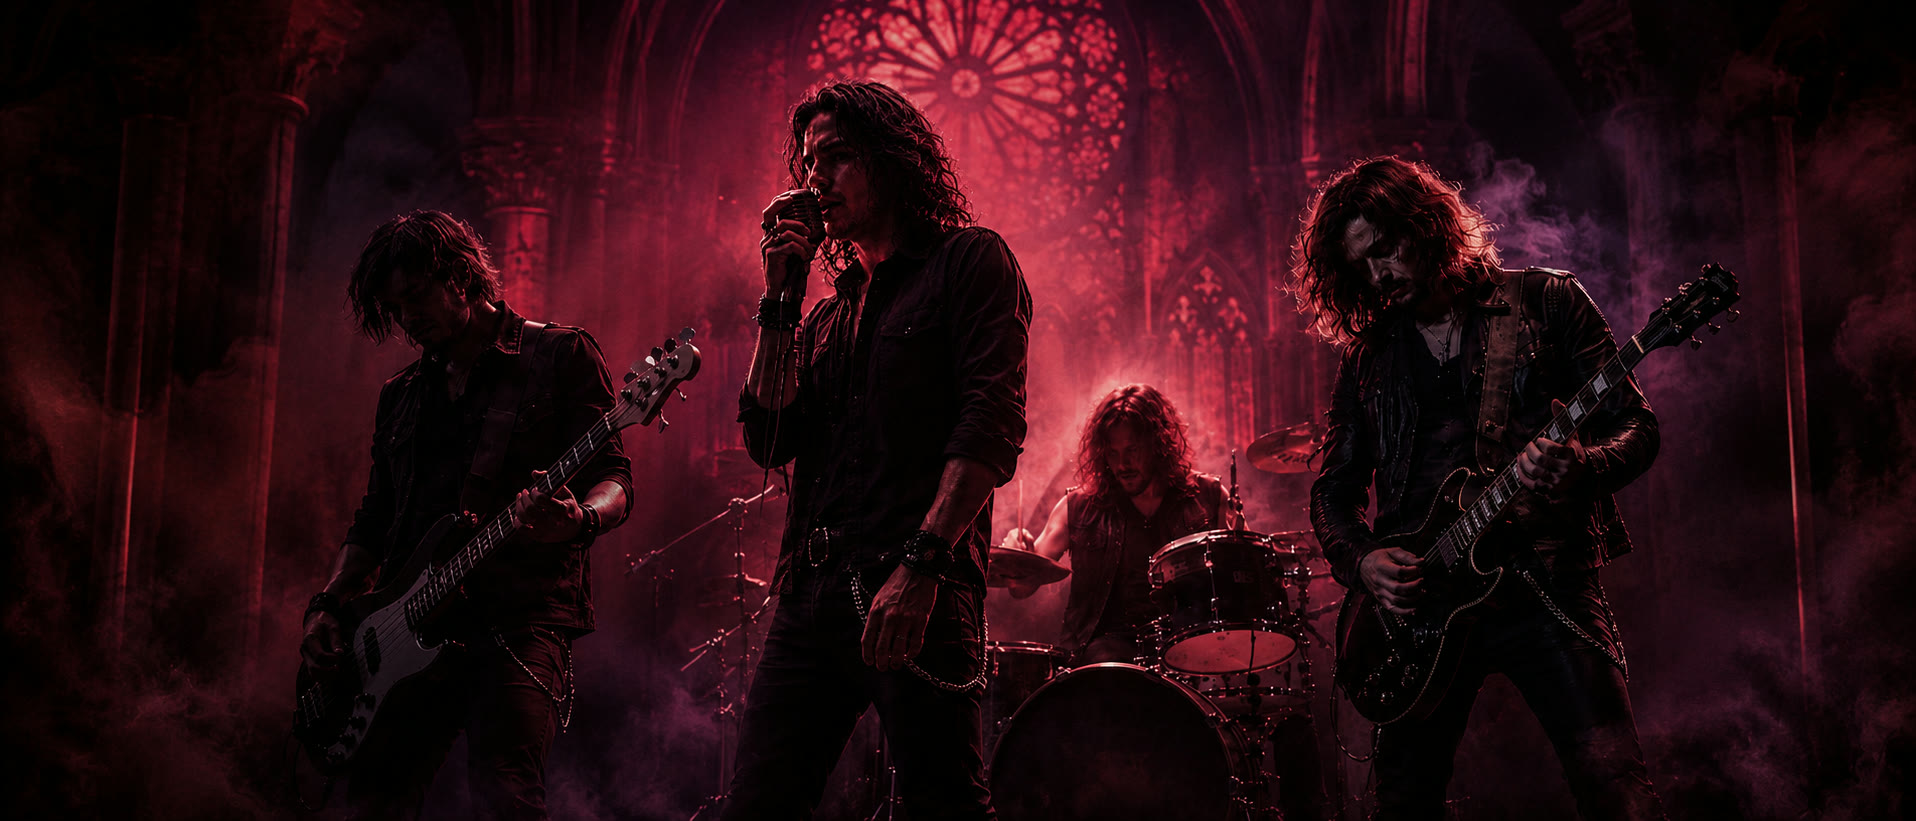
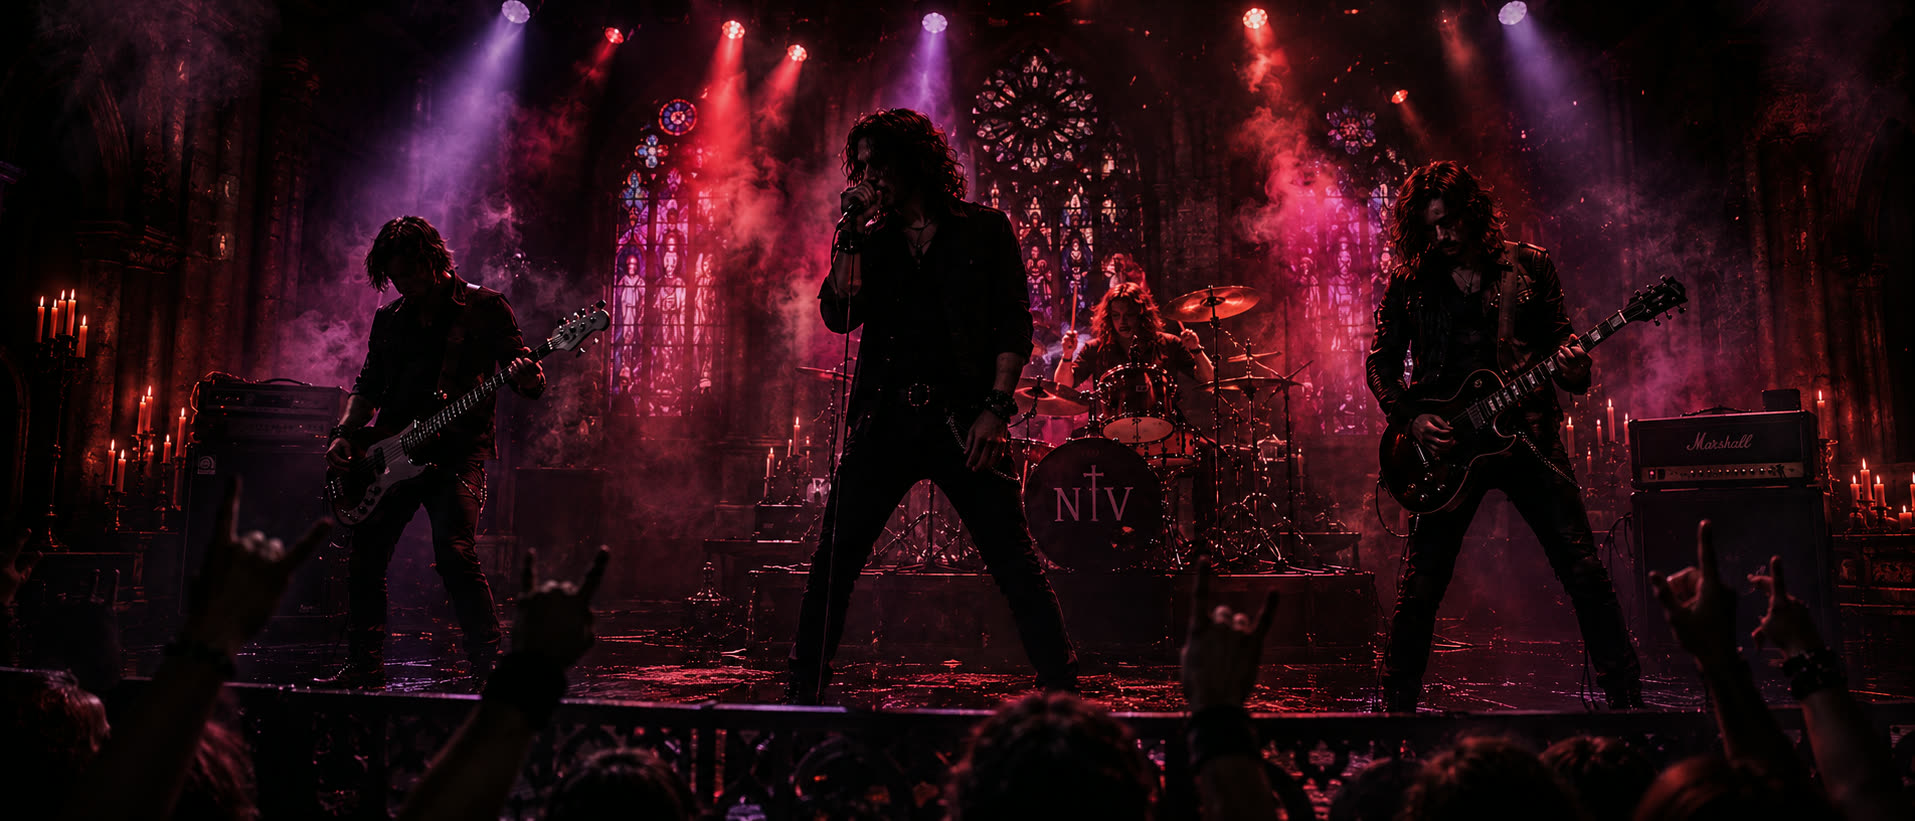
Restore press-kit poster as a tracked, right-sized JPG
Caught pre-deploy: band.html and band-scroll.html referenced
band-press-kit.png, which existed on disk but had never been committed
— so the press scene's poster and the scroll site's press image would
both have 404'd on the live site while looking fine locally.

Rather than commit the 2.14MB PNG, re-encoded it to the already-tracked
band-press-kit.jpg path (248KB, 8.6x smaller) which matches the
convention every other poster in the project follows. Verified the
re-encode against the source: no visible artifacts in the smoke
gradients or candle detail. Repointed both files, removed the PNG.

Pre-deploy audit now passes on both counts: every local asset
reference resolves on disk, and every referenced file is tracked in
git (the only greps left are the two spatial-audio paths, which live
inside a comment).

diff --git a/band-scroll.html b/band-scroll.html
@@ -168,12 +168,12 @@
     <section class="section tour" id="press">
       <div class="section-head reveal"><p class="kicker">03 / Press</p><h2>Press Kit</h2></div>
       <div class="record-grid">
-        <figure class="media-frame press-image reveal-media"><img class="lazy-media" data-src="assets/band-press-kit.png" alt="NOCTURNE VELVET press kit"><noscript><img src="assets/band-press-kit.png" alt="NOCTURNE VELVET press kit"></noscript></figure>
+        <figure class="media-frame press-image reveal-media"><img class="lazy-media" data-src="assets/band-press-kit.jpg" alt="NOCTURNE VELVET press kit"><noscript><img src="assets/band-press-kit.jpg" alt="NOCTURNE VELVET press kit"></noscript></figure>
         <div class="record-copy reveal">
           <p class="kicker">Official media</p><h2>NOCTURNE VELVET</h2>
           <p class="quote">"A staggering live force."<br>— Placeholder Mag</p>
           <p class="quote">"Dark, romantic, deafening."<br>— Placeholder Zine</p>
-          <div class="actions"><a class="button primary" href="assets/band-press-kit.png" download>Open press asset →</a></div>
+          <div class="actions"><a class="button primary" href="assets/band-press-kit.jpg" download>Open press asset →</a></div>
         </div>
       </div>
     </section>

diff --git a/band.html b/band.html
@@ -85,7 +85,7 @@ window.DEMO = {
       ]
     },
     { id:"press", trans:"mask", layout:"center",
-      poster:"assets/band-press-kit.png",
+      poster:"assets/band-press-kit.jpg",
       eyebrow:"The Band",
       titleClass:"metal",
       title:'Four. <b>Loud.</b><br>Relentless.',
